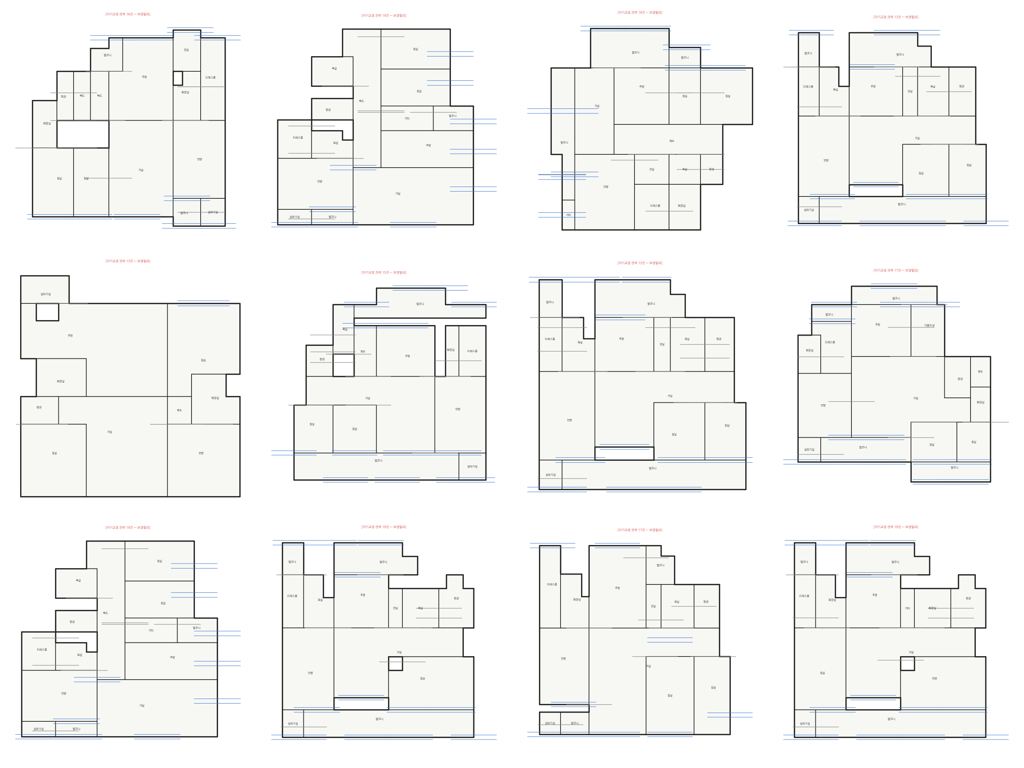
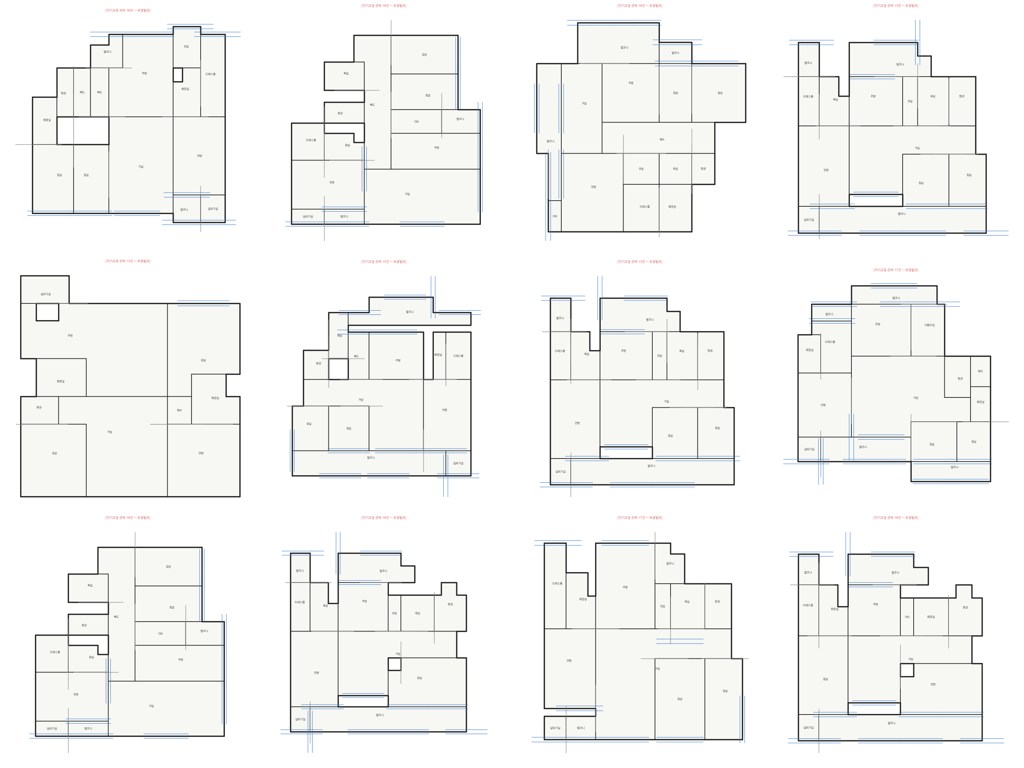
feat(perf): 성능비교 strict 곡선 마감 + production montage 재렌더
전 모델 strict(도면답게) 재평가 곡선 6개(results_*_strict.md, n200seed42). production grid128 strict 56%(loose65%)·RPLAN strict≈loose·한국 strict<<loose. ar_stats peaks를 strict로 갱신+montage 목록(repair production·before/after·convex). production montage를 --repair+벽재생성+창문정렬로 재렌더. repair_before_after=벽재생성 반영(엉킨 생성물→깔끔 도면).

diff --git a/results_korean_g256_ftbase_strict.md b/results_korean_g256_ftbase_strict.md
@@ -1,0 +1,30 @@
+# 한국 grid256 FT 베이스 ablation — strict 곡선
+
+eval n200 seed42. clean(strict)=도면답게(+대각선0+꼭짓점>=4+외곽 1덩어리·채움·볼록). loose=옛 정의(selfint·overlap·span만).
+
+## 베이스 grid256 ep90 (플래토)
+
+| korean ep | clean(strict/도면답게) | clean(loose/옛) | single | rooms |
+|---|---|---|---|---|
+| ep10 | **14%** | 18% | 60% | median 14 mean 13.9 |
+| ep20 | **28%** | 32% | 75% | median 15 mean 14.4 |
+| ep30 | **33%** | 38% | 76% | median 14 mean 14.2 |
+| ep40 | **40%** | 48% | 79% | median 14 mean 14.2 |
+| ep50 | **48%** | 53% | 80% | median 14 mean 14.4 |
+| ep60 | **42%** | 48% | 79% | median 14 mean 13.8 |
+| ep70 | **46%** | 55% | 80% | median 14 mean 14.7 |
+| ep80 | **56%** | 63% | 84% | median 14 mean 14.1 |
+
+## 베이스 grid256 ep110 (피크)
+
+| korean ep | clean(strict/도면답게) | clean(loose/옛) | single | rooms |
+|---|---|---|---|---|
+| ep10 | **19%** | 22% | 56% | median 14 mean 14.1 |
+| ep20 | **37%** | 42% | 72% | median 14 mean 14.4 |
+| ep30 | **34%** | 41% | 74% | median 14 mean 14.2 |
+| ep40 | **42%** | 46% | 79% | median 14 mean 14.2 |
+| ep50 | **43%** | 46% | 76% | median 14 mean 14.1 |
+| ep60 | **50%** | 54% | 82% | median 14 mean 14.2 |
+| ep70 | **44%** | 55% | 84% | median 14 mean 14.4 |
+| ep80 | **50%** | 57% | 82% | median 14 mean 13.9 |
+

diff --git a/results_rplan_grid256_strict.md b/results_rplan_grid256_strict.md
@@ -1,0 +1,18 @@
+# RPLAN grid256 (rBoundary) — strict 곡선
+
+eval n200 seed42. clean(strict)=도면답게(+대각선0+꼭짓점>=4+외곽 1덩어리·채움·볼록). loose=옛 정의(selfint·overlap·span만).
+
+| RPLAN ep | clean(strict/도면답게) | clean(loose/옛) | single | rooms |
+|---|---|---|---|---|
+| ep10 | **6%** | 6% | 56% | median 7 mean 7.2 |
+| ep20 | **10%** | 12% | 60% | median 7 mean 7.2 |
+| ep30 | **20%** | 20% | 66% | median 7 mean 6.9 |
+| ep40 | **22%** | 24% | 66% | median 7 mean 6.9 |
+| ep50 | **38%** | 40% | 75% | median 7 mean 7.0 |
+| ep60 | **50%** | 50% | 76% | median 7 mean 6.8 |
+| ep70 | **49%** | 50% | 81% | median 7 mean 6.9 |
+| ep80 | **50%** | 54% | 77% | median 7 mean 6.9 |
+| ep90 | **54%** | 56% | 78% | median 7 mean 6.8 |
+| ep100 | **54%** | 56% | 80% | median 7 mean 6.9 |
+| ep110 | **64%** | 66% | 87% | median 7 mean 6.9 |
+| ep120 | **60%** | 62% | 84% | median 7 mean 6.8 |

diff --git a/results_korean_gated_strict.md b/results_korean_gated_strict.md
@@ -1,0 +1,16 @@
+# 한국 gated FT (grid128, production) — strict 곡선
+
+eval n200 seed42. clean(strict)=도면답게(+대각선0+꼭짓점>=4+외곽 1덩어리·채움·볼록). loose=옛 정의(selfint·overlap·span만).
+
+| korean ep | clean(strict/도면답게) | clean(loose/옛) | single | rooms |
+|---|---|---|---|---|
+| ep10 | **21%** | 26% | 60% | median 14 mean 13.9 |
+| ep20 | **29%** | 38% | 62% | median 14 mean 13.9 |
+| ep30 | **40%** | 46% | 68% | median 14 mean 13.8 |
+| ep40 | **40%** | 48% | 68% | median 14 mean 14.1 |
+| ep50 | **42%** | 50% | 68% | median 14 mean 14.1 |
+| ep60 | **46%** | 58% | 70% | median 14 mean 14.2 |
+| ep70 | **53%** | 61% | 76% | median 14 mean 14.1 |
+| ep80 | **54%** | 65% | 70% | median 14 mean 14.1 |
+| ep90 | **44%** | 54% | 70% | median 14 mean 14.1 |
+| ep100 | **56%** | 64% | 78% | median 14 mean 14.3 |

diff --git a/results_korean_g256_ftbase_b100_strict.md b/results_korean_g256_ftbase_b100_strict.md
@@ -1,0 +1,16 @@
+# 한국 grid256 FT base ep100 — strict 곡선
+
+eval n200 seed42. clean(strict)=도면답게(+대각선0+꼭짓점>=4+외곽 1덩어리·채움·볼록). loose=옛 정의(selfint·overlap·span만).
+
+## 베이스 grid256 ep100
+
+| korean ep | clean(strict/도면답게) | clean(loose/옛) | single | rooms |
+|---|---|---|---|---|
+| ep10 | **15%** | 18% | 54% | median 14 mean 14.1 |
+| ep20 | **26%** | 30% | 66% | median 14 mean 14.3 |
+| ep30 | **38%** | 44% | 72% | median 15 mean 14.4 |
+| ep40 | **35%** | 40% | 76% | median 14 mean 14.2 |
+| ep50 | **40%** | 44% | 76% | median 14 mean 13.9 |
+| ep60 | **47%** | 57% | 79% | median 14 mean 14.1 |
+| ep70 | **48%** | 56% | 84% | median 14 mean 14.4 |
+| ep80 | **47%** | 57% | 80% | median 14 mean 14.4 |

diff --git a/results_roomperm_rplan_strict.md b/results_roomperm_rplan_strict.md
@@ -1,0 +1,14 @@
+# RPLAN grid128 room-perm+seed42 — strict 곡선
+
+eval n200 seed42. clean(strict)=도면답게(+대각선0+꼭짓점>=4+외곽 1덩어리·채움·볼록). loose=옛 정의(selfint·overlap·span만).
+
+| room-perm+seed ep | clean(strict/도면답게) | clean(loose/옛) | single | rooms |
+|---|---|---|---|---|
+| ep10 | **2%** | 2% | 48% | median 7 mean 7.3 |
+| ep20 | **8%** | 10% | 56% | median 7 mean 7.4 |
+| ep30 | **11%** | 12% | 59% | median 7 mean 7.3 |
+| ep40 | **18%** | 18% | 66% | median 7 mean 7.2 |
+| ep50 | **28%** | 30% | 74% | median 7 mean 7.0 |
+| ep60 | **43%** | 44% | 79% | median 7 mean 7.0 |
+| ep70 | **38%** | 38% | 73% | median 7 mean 7.0 |
+| ep80 | **44%** | 46% | 80% | median 7 mean 7.0 |

diff --git a/results_rplan_strict.md b/results_rplan_strict.md
@@ -1,0 +1,14 @@
+# RPLAN grid128 no-perm — strict 곡선
+
+eval n200 seed42. clean(strict)=도면답게(+대각선0+꼭짓점>=4+외곽 1덩어리·채움·볼록). loose=옛 정의(selfint·overlap·span만).
+
+| RPLAN ep | clean(strict/도면답게) | clean(loose/옛) | single | rooms |
+|---|---|---|---|---|
+| ep10 | **2%** | 2% | 54% | median 7 mean 7.3 |
+| ep20 | **6%** | 6% | 54% | median 7 mean 7.3 |
+| ep30 | **15%** | 16% | 56% | median 7 mean 7.1 |
+| ep40 | **28%** | 28% | 66% | median 7 mean 7.2 |
+| ep50 | **36%** | 37% | 68% | median 7 mean 7.0 |
+| ep60 | **38%** | 40% | 68% | median 7 mean 6.9 |
+| ep70 | **44%** | 46% | 73% | median 7 mean 7.1 |
+| ep80 | **41%** | 42% | 74% | median 7 mean 7.0 |
